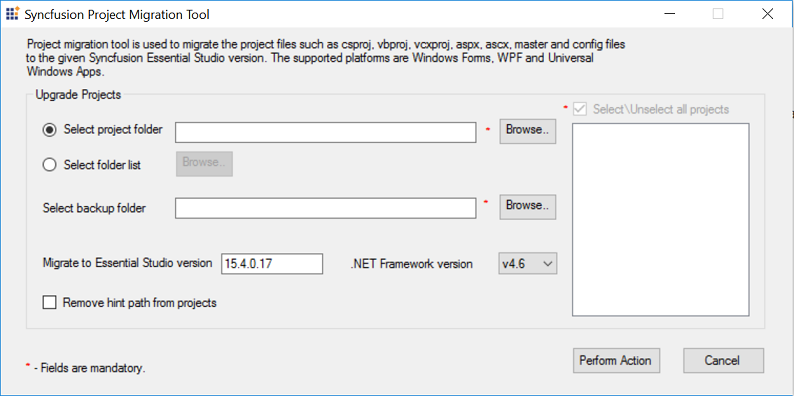
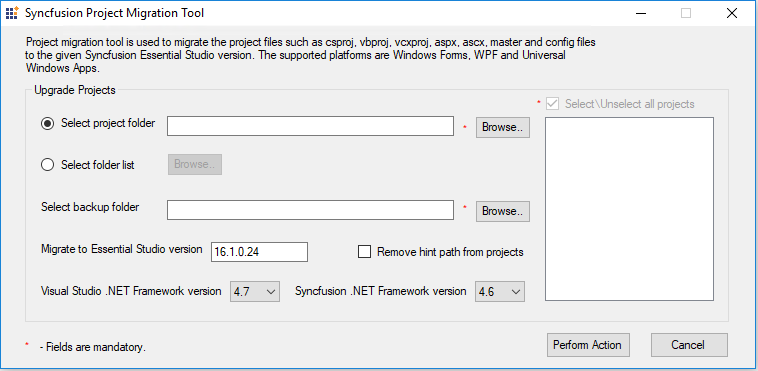
Re-documented the project migration content

diff --git a/Common/Essential-Studio/Utilities.md b/Common/Essential-Studio/Utilities.md
@@ -597,11 +597,13 @@ HKLM\Software\Microsoft\.NetFramework\v3.5\AssemblyFoldersEx\Syncfusion Essentia
 
 The ProjectMigration tool enables you to move the project files to the given Syncfusion Essential Studio Version.
 
-Syncfusion Project Migration tool supports from, Syncfusion Essential Studio Version 3.2.1.0 to the latest version and the supported platforms are Windows Forms, WPF, Silverlight, WinRT, Windows Phone and Universal Windows Platform.
+Syncfusion Project Migration tool supports from, Syncfusion Essential Studio Version 3.2.1.0 to the latest version and the supported platforms are Windows Forms, WPF and Universal Windows Platform.
 
-N> Project Migration utility will change the TargetFramework version and Syncfusion assembly version alone in the .csproj files. If you are using ASP.NET and ASP.NET MVC projects, please refer [ASP.NET Migration](https://help.syncfusion.com/extension/aspnet-extension/project-migration) . 
+N> Project Migration utility will change the TargetFramework version and Syncfusion assembly version alone in the .csproj files.
 
 The following steps illustrate how to migrate a project.
+
+### Windows Forms, WPF and Universal Windows Platform
 
 1. You can open the Project Migration Tool from the following location: (Installed location)\Syncfusion\Essential Studio\x.x.x.x\Utilities\ Project Migration\ProjectMigrationWindows.exe.
 
@@ -615,13 +617,23 @@ The following steps illustrate how to migrate a project.
 
 4. By default, corresponding Essential Studio version will be present displayed in the Essential Studio version field.
 
-5. Select the required .NET version from the .NET Framework version drop-down list.
+5. Select the required Visual Studio .NET Framework version and Syncfusion .NET Framework version from the drop-down list.
 
-6. When you refer to the Syncfusion assemblies by Hint path instead of GAC location then, copy the latest assemblies to that location manually or select the Remove hint path from projects check box, to remove the hint from the project. 
+6. When you refer the Syncfusion assemblies by Hint path instead of GAC location then, copy the latest assemblies to that location manually or select the Remove hint path from projects check box, to remove the hint from the project. 
 
     N> If you have referred the Syncfusion assemblies to your project from hint path and you have selected the Remove hint path from projects check box in Project Migration utility, Syncfusion assemblies will be referred from GAC if the assemblies are installed in GAC
 
 7. Click Perform Action. The utility upgrades the selected projects to the newer versions. 
+
+### For Web platforms.
+
+For Web platforms, follow the steps suggested in the following documentation link to migrate the projects to the latest version. 
+
+ASP.NET - [ASP.NET Migration](https://help.syncfusion.com/extension/aspnet-extension/project-migration) 
+
+ASP.NET MVC - [ASP.NET MVC Migration] (https://help.syncfusion.com/extension/aspnet-mvc-extension/project-migration)
+
+ASP.NET Core - [ASP.NET Core Migration] (https://help.syncfusion.com/extension/aspnetcore-extension/project-migration)
 
 ### Command Line
 
@@ -631,14 +643,14 @@ The following steps illustrate how to run the Project Migration tool through com
 
    {Installed Drive}\{ProgramFiles Folder}\Syncfusion\Essential Studio\{version}\Utilities\Project Migration\
 
-   Example: C:\Program Files (x86)\Syncfusion\Essential Studio\12.1.0.43\Utilities\Project Migration\
+   Example: C:\Program Files (x86)\Syncfusion\Essential Studio\16.1.0.24\Utilities\Project Migration\
 
 
 2. Run “ProjectMigrationConsole.exe” with the following arguments:
 
-   /source:"sourcepath" /studio:"Essential Studio version" /framework:"[v3.5] / [v2.0] / [v4.0] / [v4.5] / [v4.5.1]" /backup:"Backupfolderpath" /hintpath:"[False] / [True]"
+   /source:"sourcepath" /studio:"Essential Studio version" /framework:"[v3.5] / [v2.0] / [v4.0] / [v4.5] / [v4.5.1] / [v4.6]" /targetframework:"[v3.5] / [v2.0] / [v4.0] / [v4.5] / [v4.5.1] / [v4.6]" /backup:"Backupfolderpath" /hintpath:"[False] / [True]" /sourcefolder:"sourcefolderpath" /isfolderbackedup:"[False] / [True]"
 
-   Example: /source:"C:\Users\Admin\Documents\Visual Studio 2012\Projects\WindowsFormsApplication3" /studio:"11.2.0.25" /framework:"v4.0" /backup:"E:\ProjectMigrationBackup\WindowsFormsApplication3" /hintpath:"False"
+   Example: /source:"C:\Users\syncfusion\Documents\Visual Studio 2017\Projects\SyncfusionWindowsFormsApplication1\SyncfusionWindowsFormsApplication1" /studio:"16.1.0.24" /framework:"v4.6" /targetframework:"v4.7" /backup:"C:\Syncfusion\backup\SyncfusionWindowsFormsApplication1_2018_02_27_022449\SyncfusionWindowsFormsApplication1" /hintpath:"False" /sourcefolder:"C:\Users\syncfusion\Documents\Visual Studio 2017\Projects\SyncfusionWindowsFormsApplication1" /isfolderbackedup:"False"
 
 The following screenshot illustrates this.
 
